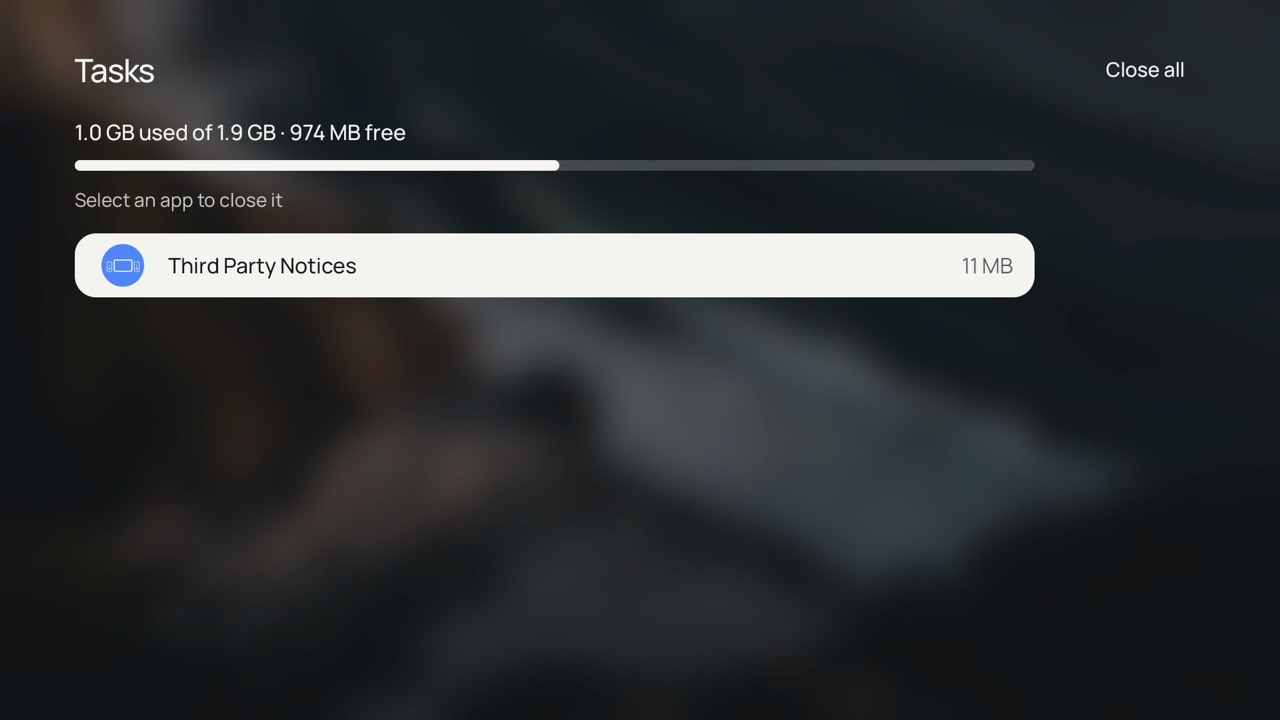
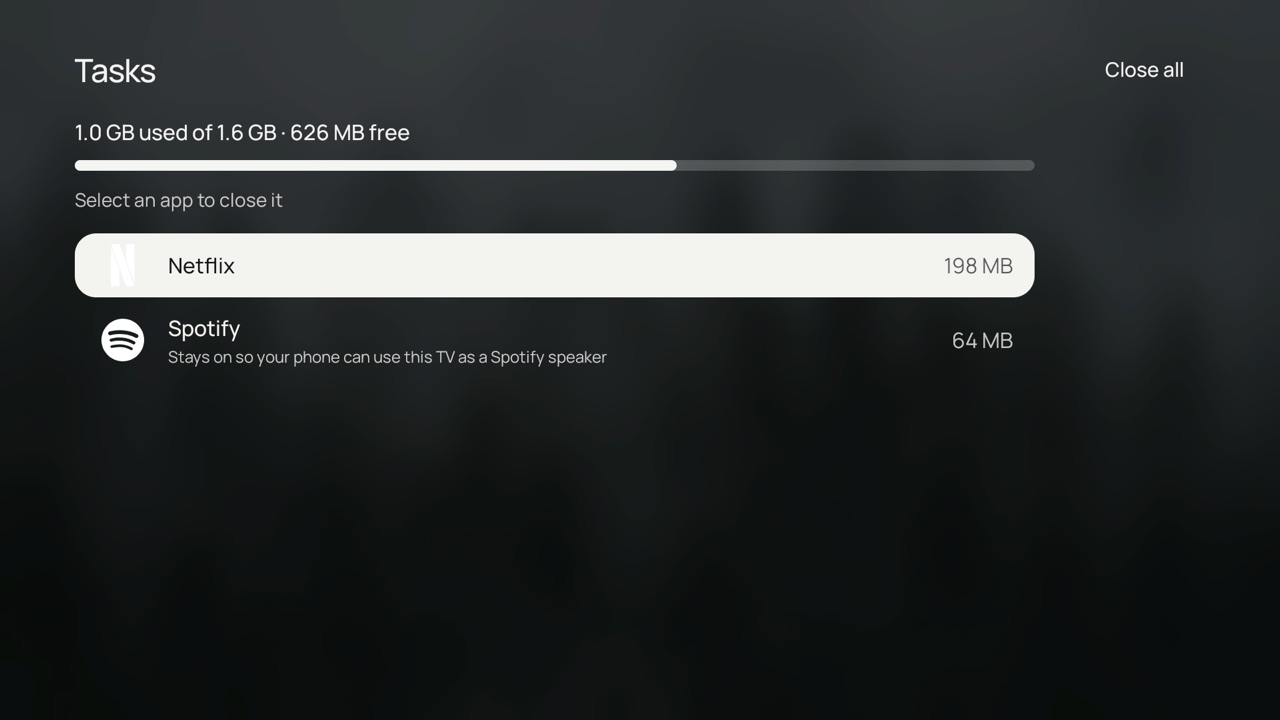
README: Tasks screenshot from the Fire TV showing the new reason text

diff --git a/README.md b/README.md
@@ -17,8 +17,10 @@ in plain Java.
 | **Home, list layout** | **Apps, list layout** |
 | ![Home in list layout](docs/screenshots/home-list.jpg) | ![Apps in list layout](docs/screenshots/apps-list.jpg) |
 
-<sub>Screenshots are from the Android TV emulator, so the dock shows its
-built-in apps. On a real TV it shows your streaming apps with their logos.</sub>
+<sub>The Tasks screenshot is from a Fire TV Stick 4K Max. Tasks explains apps
+that keep running, such as Spotify staying on as a speaker. The others are
+from the Android TV emulator, so the dock shows its built-in apps. On a real
+TV it shows your streaming apps with their logos.</sub>
 
 ## Supported devices
 
